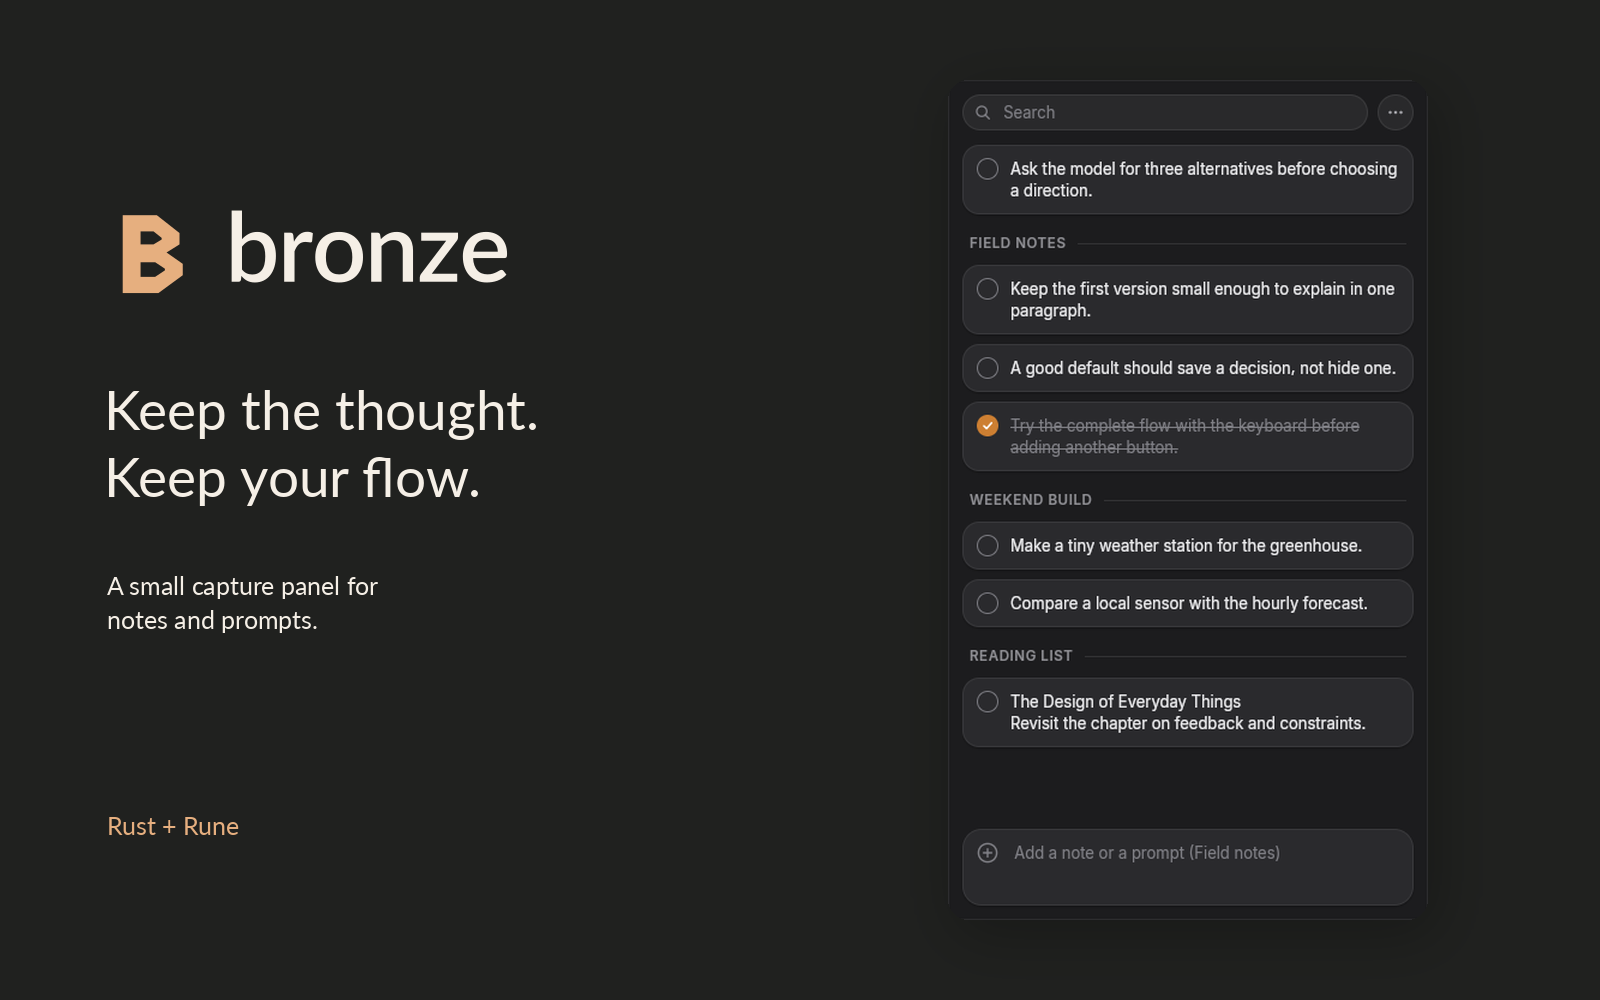
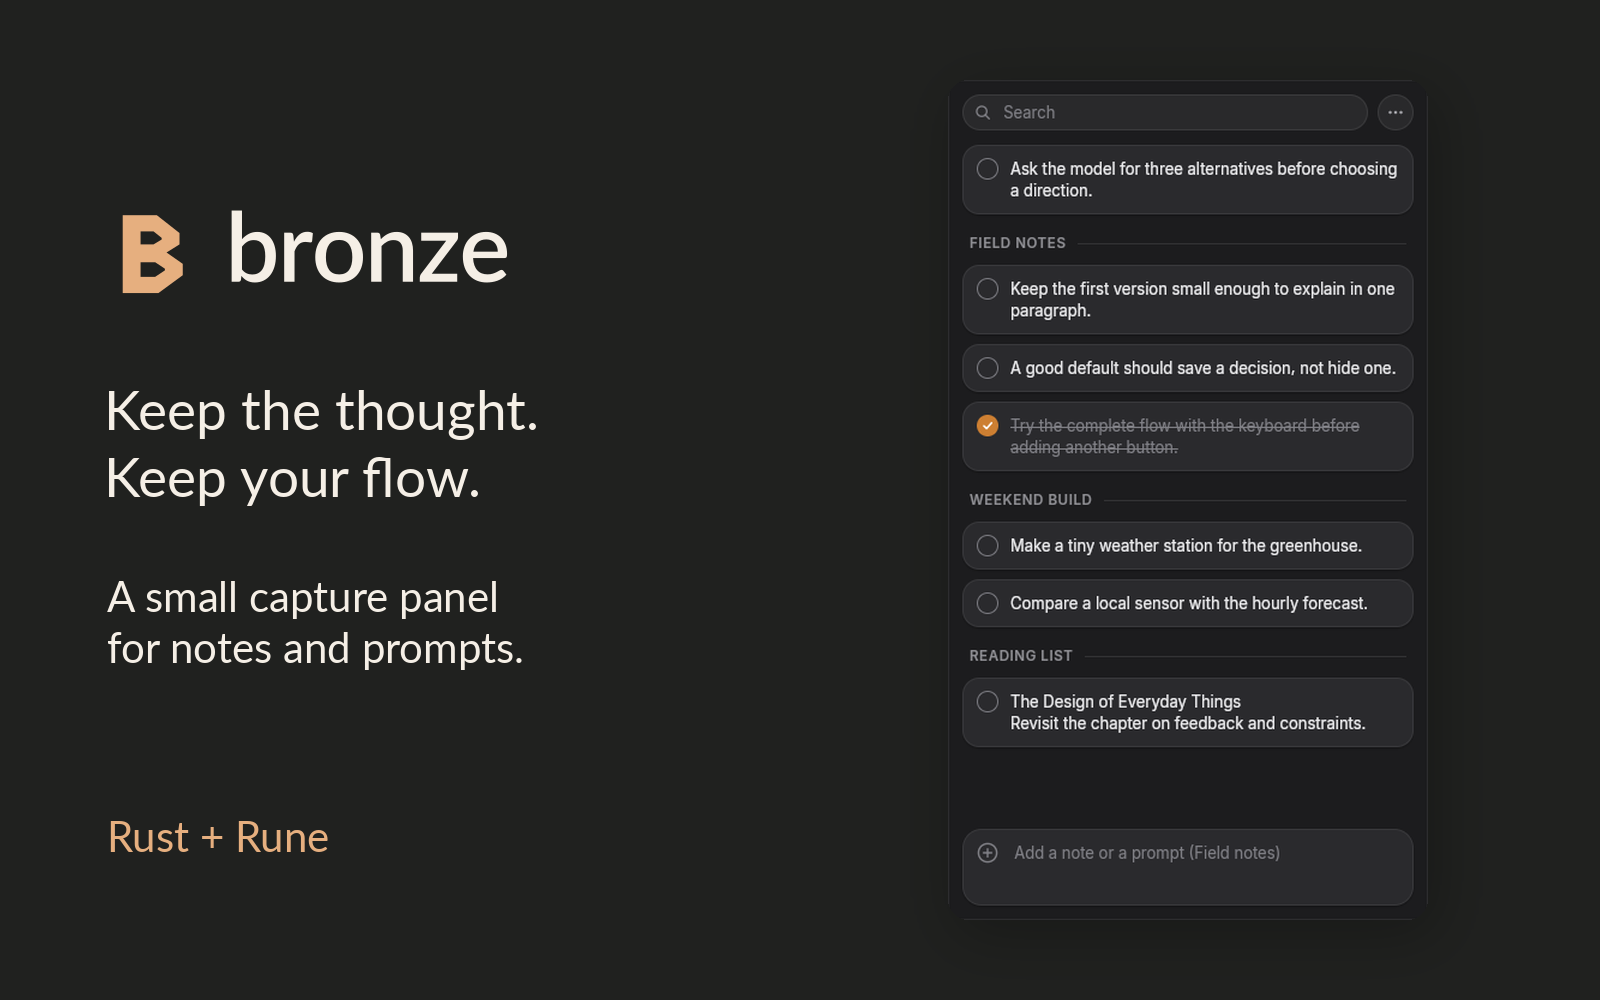
docs(brand): address asset review and preserve preview availability

Changed region(s): [[0.0625, 0.558, 0.3125, 0.682], [0.0625, 0.806, 0.2188, 0.868]]

diff --git a/docs/media/preview.html b/docs/media/preview.html
@@ -5,7 +5,7 @@
 <meta name="viewport" content="width=device-width, initial-scale=1">
 <title>Bronze - asset set B</title>
 <meta name="description" content="Independent Bronze identity and README media by GPT-6.1 Sol on high.">
-<link rel="icon" href="/assets/brand/Bronze-dark.ico">
+<link rel="icon" href="../../assets/brand/Bronze-dark.ico">
 <style>
 :root{color-scheme:light;--paper:#f5efe6;--ink:#29251f;--bronze:#9d542c;--line:#d7c9b7;--muted:#665b4e;--panel:#e9dfd1}
 *{box-sizing:border-box}body{margin:0;background:var(--paper);color:var(--ink);font:17px/1.6 -apple-system,BlinkMacSystemFont,"Segoe UI",sans-serif}::selection{background:#d8b18c;color:#29251f}a{color:var(--bronze);text-underline-offset:4px}a:hover{text-decoration-thickness:2px}a:focus-visible{outline:3px solid var(--bronze);outline-offset:5px}img{max-width:100%;height:auto;display:block}main,header,footer{max-width:1220px;margin:auto;padding:0 40px}header{display:flex;align-items:center;justify-content:space-between;gap:24px;padding-top:30px;padding-bottom:30px;border-bottom:1px solid var(--line)}header img{width:162px}header p{font-size:14px;margin:0;color:var(--muted)}h1{font-weight:500;letter-spacing:-.035em;font-size:clamp(42px,5.5vw,76px);line-height:1.08;max-width:850px;margin:60px 0 26px}h2{font-weight:500;letter-spacing:-.025em;font-size:32px;line-height:1.2;margin:0 0 18px}h3{font-size:18px;font-weight:600;margin:14px 0 8px}p{max-width:68ch;margin:0 0 18px}.intro{font-size:21px;color:var(--muted);max-width:680px}.links{display:flex;gap:22px;flex-wrap:wrap;font-size:15px;margin-top:28px}.hero{margin:44px 0 70px}.hero img{width:100%}section{padding:46px 0 54px;border-top:1px solid var(--line)}.pair{display:grid;grid-template-columns:1fr 1fr;gap:20px;margin:28px 0}.specimen{display:flex;flex-direction:column;align-items:center;justify-content:center;padding:44px 24px;min-height:220px}.specimen img{width:340px}.light{background:#fffaf2}.dark{background:#20211f;color:#f5efe6}.caption{font-size:14px;color:var(--muted);margin-top:12px}.iconline{display:flex;align-items:end;flex-wrap:wrap;gap:28px;margin:32px 0}.iconline figure{margin:0;text-align:center}.iconline figcaption{font-size:13px;color:var(--muted);margin-top:12px}.iconline img{max-width:none}.downloads{display:flex;gap:18px;flex-wrap:wrap;font-size:15px}.social img{width:100%}.screens{display:grid;grid-template-columns:repeat(3,minmax(0,1fr));gap:30px;margin-top:30px}.screens img{width:100%;border-radius:12px}.screens figure{margin:0}.screens figcaption{font-size:15px;color:var(--muted);line-height:1.5}.screens a{display:block}.screens h3{color:var(--ink)}.note{padding:20px 0 0;font-size:15px;max-width:80ch;color:var(--muted)}.readme{background:#fffaf2;padding:34px;margin-top:28px}.readme img{width:100%}.readme h3{font-size:28px;text-align:center;margin-top:28px}.readme>p{text-align:center;margin:8px auto 26px}.badges{display:flex;justify-content:center;gap:8px;flex-wrap:wrap}.badges img{width:auto;height:26px}.readme .links{justify-content:center}.design-notes{display:grid;grid-template-columns:1fr 1fr;gap:32px;margin-top:26px}.design-notes p{font-size:16px;color:var(--muted)}footer{border-top:1px solid var(--line);padding-top:24px;padding-bottom:44px;font-size:14px;color:var(--muted)}code{font-size:.9em;background:var(--panel);padding:2px 5px;border-radius:4px}.light-logo{display:block}.dark-logo{display:none}
@@ -14,27 +14,27 @@
 </style>
 </head>
 <body>
-<header><div><img class="light-logo" src="/assets/brand/logo-light.svg" alt="Bronze"><img class="dark-logo" src="/assets/brand/logo-dark.svg" alt="Bronze"></div><p>Asset set B · GPT-6.1 Sol · high</p></header>
+<header><div><img class="light-logo" src="../../assets/brand/logo-light.svg" alt="Bronze"><img class="dark-logo" src="../../assets/brand/logo-dark.svg" alt="Bronze"></div><p>Asset set B · GPT-6.1 Sol · high</p></header>
 <main>
 <h1>A small tool.<br>A clear identity.</h1>
 <p class="intro">Bronze, with a cut-paper B, warm metal tones, and real app captures. An independent identity proposal for the open-source repository.</p>
 <nav class="links" aria-label="Preview sections"><a href="#identity">Logo and icons</a><a href="#motion">App in motion</a><a href="#readme">README opening</a><a href="#handoff">Capture notes</a></nav>
-<div class="hero"><picture><source media="(prefers-color-scheme:dark)" srcset="/docs/media/hero-dark.png"><img src="/docs/media/hero-light.png" alt="Bronze brand hero beside the running native app with invented notes." width="1600" height="1000"></picture></div>
+<div class="hero"><picture><source media="(prefers-color-scheme:dark)" srcset="../../docs/media/hero-dark.png"><img src="../../docs/media/hero-light.png" alt="Bronze brand hero beside the running native app with invented notes." width="1600" height="1000"></picture></div>
 <section id="identity"><h2>The mark and the name</h2><p>The B uses two angular folds and one solid spine. It stays recognizable as a one-color mark and at small icon sizes. The wordmark uses outlined lettering, so it needs no installed font.</p>
-<div class="pair"><div class="specimen light"><img src="/assets/brand/logo-light.svg" alt="Bronze logo for a light background"></div><div class="specimen dark"><img src="/assets/brand/logo-dark.svg" alt="Bronze logo for a dark background"></div></div>
-<div class="downloads"><a href="/assets/brand/logo-light.svg">Light logo SVG</a><a href="/assets/brand/logo-dark.svg">Dark logo SVG</a><a href="/assets/brand/wordmark-light.svg">Wordmark SVG</a><a href="/assets/brand/mark-light.svg">Mark SVG</a></div>
+<div class="pair"><div class="specimen light"><img src="../../assets/brand/logo-light.svg" alt="Bronze logo for a light background"></div><div class="specimen dark"><img src="../../assets/brand/logo-dark.svg" alt="Bronze logo for a dark background"></div></div>
+<div class="downloads"><a href="../../assets/brand/logo-light.svg">Light logo SVG</a><a href="../../assets/brand/logo-dark.svg">Dark logo SVG</a><a href="../../assets/brand/wordmark-light.svg">Wordmark SVG</a><a href="../../assets/brand/mark-light.svg">Mark SVG</a></div>
 <h3>Ready for the dock and taskbar</h3><p>Light and dark artwork, with transparent margins. Complete Mac iconsets and ICNS files, plus Windows ICO files and individual PNG sizes.</p>
-<div class="iconline"><figure><img src="/assets/brand/app-icon-light-1024.png" width="128" height="128" alt="Light app icon at 128 pixels"><figcaption>128 px · light</figcaption></figure><figure><img src="/assets/brand/app-icon-dark-1024.png" width="128" height="128" alt="Dark app icon at 128 pixels"><figcaption>128 px · dark</figcaption></figure><figure><img src="/assets/brand/windows-dark/icon-64.png" width="64" height="64" alt="Dark app icon at 64 pixels"><figcaption>64 px</figcaption></figure><figure><img src="/assets/brand/windows-dark/icon-32.png" width="32" height="32" alt="Dark app icon at 32 pixels"><figcaption>32 px</figcaption></figure><figure><img src="/assets/brand/windows-dark/icon-16.png" width="16" height="16" alt="Dark app icon at 16 pixels"><figcaption>16 px</figcaption></figure></div>
-<div class="downloads"><a href="/assets/brand/Bronze-light.icns">Mac light ICNS</a><a href="/assets/brand/Bronze-dark.icns">Mac dark ICNS</a><a href="/assets/brand/Bronze-light.ico">Windows light ICO</a><a href="/assets/brand/Bronze-dark.ico">Windows dark ICO</a></div>
+<div class="iconline"><figure><img src="../../assets/brand/app-icon-light-1024.png" width="128" height="128" alt="Light app icon at 128 pixels"><figcaption>128 px · light</figcaption></figure><figure><img src="../../assets/brand/app-icon-dark-1024.png" width="128" height="128" alt="Dark app icon at 128 pixels"><figcaption>128 px · dark</figcaption></figure><figure><img src="../../assets/brand/windows-dark/icon-64.png" width="64" height="64" alt="Dark app icon at 64 pixels"><figcaption>64 px</figcaption></figure><figure><img src="../../assets/brand/windows-dark/icon-32.png" width="32" height="32" alt="Dark app icon at 32 pixels"><figcaption>32 px</figcaption></figure><figure><img src="../../assets/brand/windows-dark/icon-16.png" width="16" height="16" alt="Dark app icon at 16 pixels"><figcaption>16 px</figcaption></figure></div>
+<div class="downloads"><a href="../../assets/brand/Bronze-light.icns">Mac light ICNS</a><a href="../../assets/brand/Bronze-dark.icns">Mac dark ICNS</a><a href="../../assets/brand/Bronze-light.ico">Windows light ICO</a><a href="../../assets/brand/Bronze-dark.ico">Windows dark ICO</a></div>
 </section>
-<section><h2>GitHub social preview</h2><p>1280 × 640 pixels. Both variants include outlined type and a large mark that survives a small link card.</p><div class="pair social"><a href="/assets/brand/social-preview-light.png"><img src="/assets/brand/social-preview-light.png" width="1280" height="640" alt="Light social preview. Keep the thought. Keep your flow."></a><a href="/assets/brand/social-preview-dark.png"><img src="/assets/brand/social-preview-dark.png" width="1280" height="640" alt="Dark social preview. Keep the thought. Keep your flow."></a></div></section>
+<section><h2>GitHub social preview</h2><p>1280 × 640 pixels. Both variants include outlined type and a large mark that survives a small link card.</p><div class="pair social"><a href="../../assets/brand/social-preview-light.png"><img src="../../assets/brand/social-preview-light.png" width="1280" height="640" alt="Light social preview. Keep the thought. Keep your flow."></a><a href="../../assets/brand/social-preview-dark.png"><img src="../../assets/brand/social-preview-dark.png" width="1280" height="640" alt="Dark social preview. Keep the thought. Keep your flow."></a></div></section>
 <section id="motion"><h2>The app, doing the work</h2><p>Three short recordings of the running native Bronze app. Every note is invented. The GIFs total less than 500 KB.</p><div class="screens">
-<figure><a href="/docs/media/quick-capture.gif"><picture><source media="(prefers-reduced-motion:reduce)" srcset="/docs/media/capture-linux.png"><img src="/docs/media/quick-capture.gif" width="400" height="700" alt="Global selected-text capture adds a note to Bronze."></picture></a><figcaption><h3>Capture selected text</h3>Ctrl + Alt + C captures a fixture selection into the active section. 3.5 seconds.</figcaption></figure>
-<figure><a href="/docs/media/search.gif"><picture><source media="(prefers-reduced-motion:reduce)" srcset="/docs/media/search-linux.png"><img src="/docs/media/search.gif" width="400" height="700" alt="Search filters notes as sensor is typed."></picture></a><figcaption><h3>Find the note</h3>Type “sensor” to filter the board. 4 seconds.</figcaption></figure>
-<figure><a href="/docs/media/sections.gif"><picture><source media="(prefers-reduced-motion:reduce)" srcset="/docs/media/section-linux.png"><img src="/docs/media/sections.gif" width="400" height="700" alt="Keyboard navigation switches to Weekend build."></picture></a><figcaption><h3>Change sections</h3>Ctrl + K opens the section switcher. 5.5 seconds.</figcaption></figure>
+<figure><a href="../../docs/media/quick-capture.gif"><picture><source media="(prefers-reduced-motion:reduce)" srcset="../../docs/media/capture-linux.png"><img src="../../docs/media/quick-capture.gif" width="400" height="700" alt="Global selected-text capture adds a note to Bronze."></picture></a><figcaption><h3>Capture selected text</h3>Ctrl + Alt + C captures a fixture selection into the active section. 3.5 seconds.</figcaption></figure>
+<figure><a href="../../docs/media/search.gif"><picture><source media="(prefers-reduced-motion:reduce)" srcset="../../docs/media/search-linux.png"><img src="../../docs/media/search.gif" width="400" height="700" alt="Search filters notes as sensor is typed."></picture></a><figcaption><h3>Find the note</h3>Type “sensor” to filter the board. 4 seconds.</figcaption></figure>
+<figure><a href="../../docs/media/sections.gif"><picture><source media="(prefers-reduced-motion:reduce)" srcset="../../docs/media/section-linux.png"><img src="../../docs/media/sections.gif" width="400" height="700" alt="Keyboard navigation switches to Weekend build."></picture></a><figcaption><h3>Change sections</h3>Ctrl + K opens the section switcher. 5.5 seconds.</figcaption></figure>
 </div><p class="note">These are Linux development-host captures under Xvfb, not Mac or Windows captures. Raw screenshots are included. The hero adds a background, a shadow, and rounded outer corners around an otherwise unchanged screenshot.</p></section>
-<section id="readme"><h2>A proposed README opening</h2><p>A product image first, a short pitch, factual badges, and the core interactions. The repository’s current README and app code remain untouched.</p><div class="readme"><picture><source media="(prefers-color-scheme:dark)" srcset="/docs/media/hero-dark.png"><img src="/docs/media/hero-light.png" width="1600" height="1000" alt="README hero with the Bronze logo and real native app screenshot."></picture><h3>Bronze</h3><p>Capture a thought, queue a prompt, and get back to your work.</p><div class="badges"><img src="/assets/brand/badge-rust.svg" alt="Rust"><img src="/assets/brand/badge-rune.svg" alt="Rune"><img src="/assets/brand/badge-platforms.svg" alt="macOS and Windows"><img src="/assets/brand/badge-status.svg" alt="Early development"></div><div class="links"><a href="/README-preview.md">Open README-preview.md</a><a href="#motion">View the three GIFs</a></div></div></section>
-<section id="handoff"><h2>What is ready, and what needs a re-take</h2><div class="design-notes"><div><h3>Ready to review</h3><p>Logo lockups, wordmarks, marks, two complete app icon families, two social images, two README heroes, four raw app screenshots, and three small GIFs.</p><a href="/docs/media/README.md">Media provenance and re-take checklist</a></div><div><h3>After sync lands</h3><p>Record two fixture clients exchanging a note through bronze-sync. Replace the hero and overview if N-226 changes the chrome. Add an MIT badge once the license file exists. No sync UI is invented in this set.</p><a href="/assets/brand/README.md">Brand files and regeneration</a></div></div></section>
+<section id="readme"><h2>A proposed README opening</h2><p>A product image first, a short pitch, factual badges, and the core interactions. The repository’s current README and app code remain untouched.</p><div class="readme"><picture><source media="(prefers-color-scheme:dark)" srcset="../../docs/media/hero-dark.png"><img src="../../docs/media/hero-light.png" width="1600" height="1000" alt="README hero with the Bronze logo and real native app screenshot."></picture><h3>Bronze</h3><p>Capture a thought, queue a prompt, and get back to your work.</p><div class="badges"><img src="../../assets/brand/badge-rust.svg" alt="Rust"><img src="../../assets/brand/badge-rune.svg" alt="Rune"><img src="../../assets/brand/badge-platforms.svg" alt="macOS, Windows, and Linux"><img src="../../assets/brand/badge-status.svg" alt="Early development"></div><div class="links"><a href="../../README-preview.md">Open README-preview.md</a><a href="#motion">View the three GIFs</a></div></div></section>
+<section id="handoff"><h2>What is ready, and what needs a re-take</h2><div class="design-notes"><div><h3>Ready to review</h3><p>Logo lockups, wordmarks, marks, two complete app icon families, two social images, two README heroes, four raw app screenshots, and three small GIFs.</p><a href="../../docs/media/README.md">Media provenance and re-take checklist</a></div><div><h3>After sync lands</h3><p>Record two fixture clients exchanging a note through bronze-sync. Replace the hero and overview if N-226 changes the chrome. Add an MIT badge once the license file exists. No sync UI is invented in this set.</p><a href="../../assets/brand/README.md">Brand files and regeneration</a></div></div></section>
 </main><footer>Independent set B, authored by GPT-6.1 Sol on high. Read-only review page. No real vaults, notes, or account data.</footer>
 </body>
 </html>

diff --git a/docs/media/build-hero.py b/docs/media/build-hero.py
@@ -20,7 +20,7 @@ for theme, background, ink in [
     )
     canvas.alpha_composite(logo, (100, 190))
     font = ImageFont.truetype("/usr/share/fonts/truetype/lato/Lato-Regular.ttf", 55)
-    label = ImageFont.truetype("/usr/share/fonts/truetype/lato/Lato-Regular.ttf", 25)
+    label = ImageFont.truetype("/usr/share/fonts/truetype/lato/Lato-Regular.ttf", 42)
     draw = ImageDraw.Draw(canvas)
     draw.text(
         (104, 375),
@@ -31,7 +31,7 @@ for theme, background, ink in [
     )
     draw.text(
         (107, 570),
-        "A small capture panel for\nnotes and prompts.",
+        "A small capture panel\nfor notes and prompts.",
         font=label,
         fill=ink,
         spacing=9,

diff --git a/docs/media/capture.py b/docs/media/capture.py
@@ -86,6 +86,8 @@ def main():
                         "error",
                         "-f",
                         "x11grab",
+                        "-draw_mouse",
+                        "0",
                         "-video_size",
                         "400x700",
                         "-i",

diff --git a/docs/media/README.md b/docs/media/README.md
@@ -58,3 +58,19 @@ A future Mac or Windows capture should replace the development-host shots before
 
 The proposed README defers its MIT badge until the actual license file lands.
 It makes no sync availability claim.
+
+## Verification and preview hosting
+
+`validation.json` records the decoded asset dimensions, GIF frames, durations, and sizes.
+`verification.txt` records final macOS decoding, HTTP checks from loki, text-palette contrast ratios, and preview service status.
+The optional design detector used a regex fallback, so it was supplemented with explicit contrast calculations.
+
+An independent Opus 5.5 technical review found no blockers.
+Its minor findings led to a Linux-inclusive platform badge, larger hero captions, pointer-free still captures, local relative preview paths, a persistent preview service, and recorded contrast evidence.
+The creative artwork remains independently authored by GPT-6.1 Sol on high.
+
+The requested preview is staged outside the repository at `~/.local/share/bronze-set-b-preview` on odin.
+The enabled user service is `bronze-set-b-preview.service`, with an installed unit in `~/.config/systemd/user`.
+The user manager has lingering enabled, and the service restarts on failure.
+It serves only the staged static assets and accepts no uploads or application mutations.
+The page is available at `http://odin:8798/` on the tailnet.

diff --git a/README-preview.md b/README-preview.md
@@ -11,7 +11,7 @@
 <p align="center">
   <img src="assets/brand/badge-rust.svg" alt="Built with Rust">
   <img src="assets/brand/badge-rune.svg" alt="UI built with Rune">
-  <img src="assets/brand/badge-platforms.svg" alt="macOS and Windows">
+  <img src="assets/brand/badge-platforms.svg" alt="macOS, Windows, and Linux">
   <img src="assets/brand/badge-status.svg" alt="Early development">
 </p>
 
